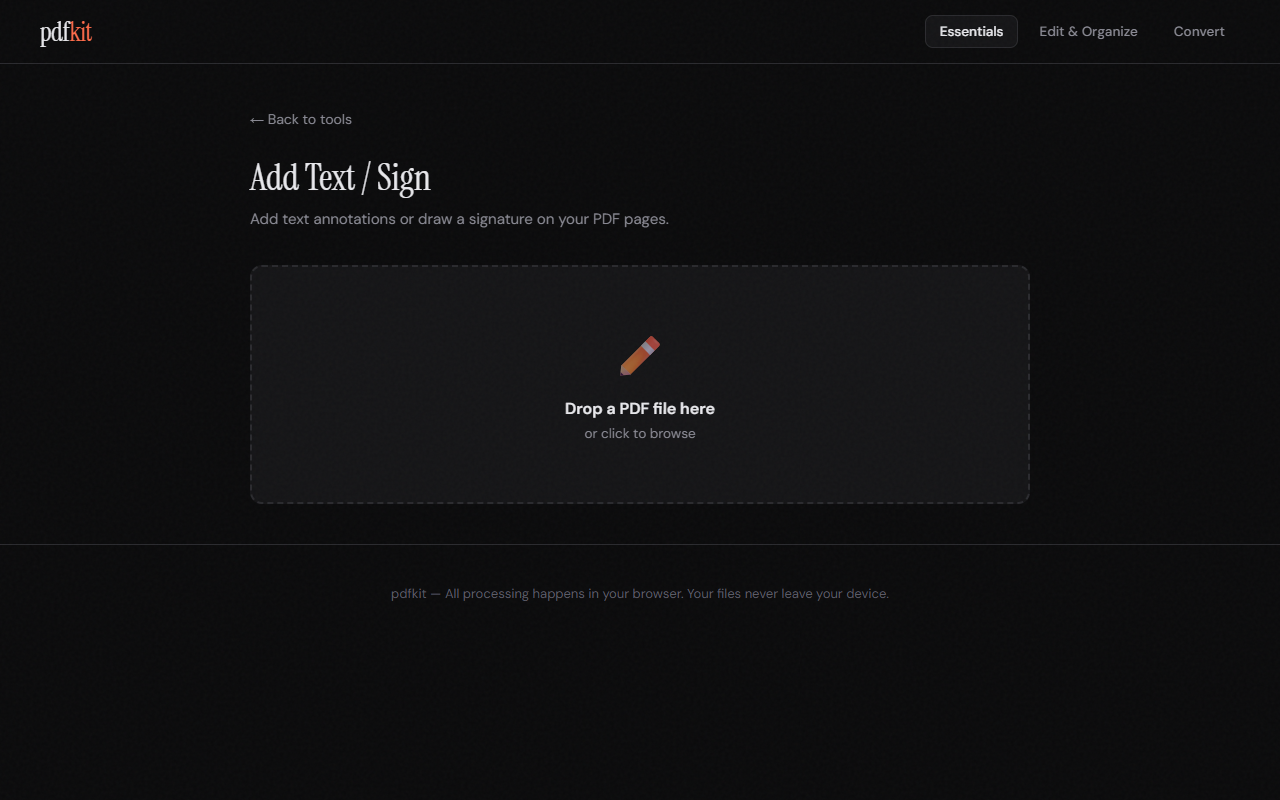
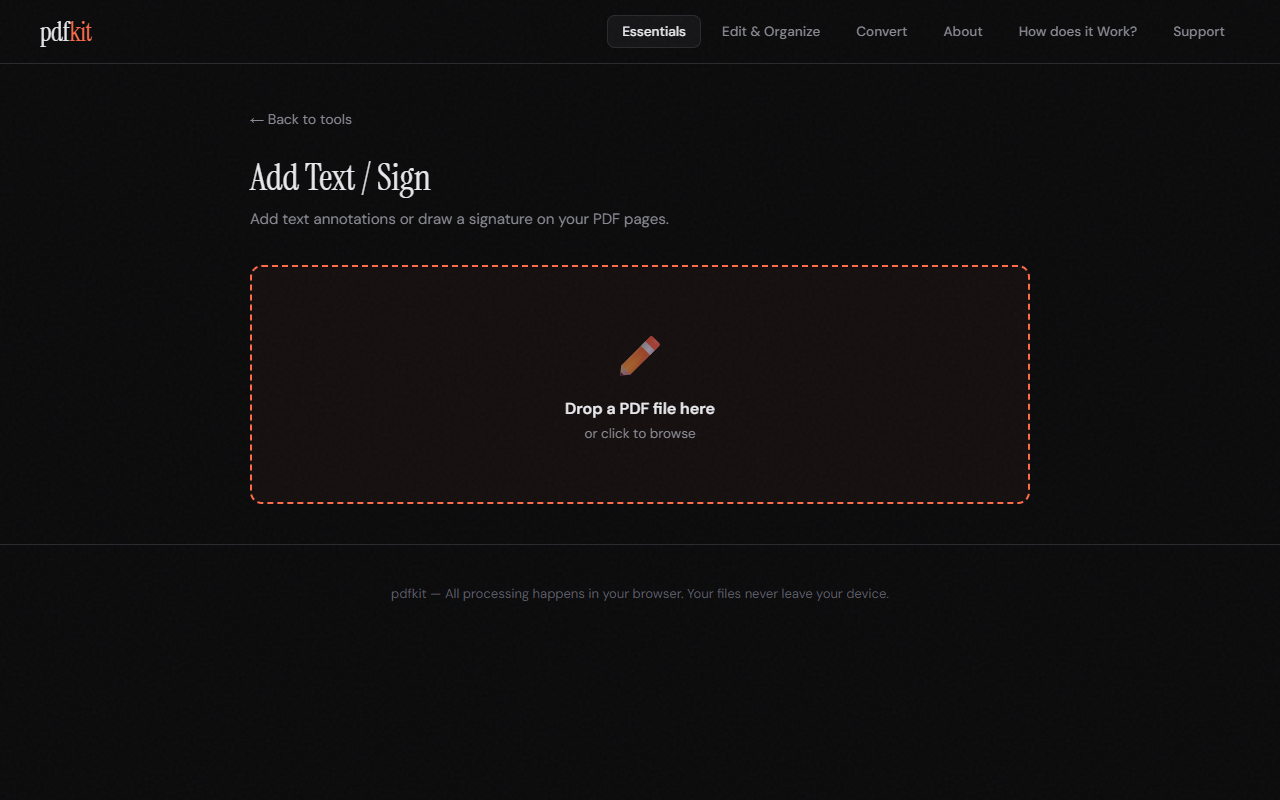
added the about the section

Changed region(s): [[0.6562, 0.0312, 0.9375, 0.0625], [0.5625, 0.0312, 0.625, 0.0625], [0.4688, 0.0312, 0.5312, 0.0625]]

diff --git a/src/core/App.js b/src/core/App.js
@@ -15,6 +15,9 @@ export function renderApp() {
         <button class="active" data-section="essentials">Essentials</button>
         <button data-section="edit">Edit & Organize</button>
         <button data-section="convert">Convert</button>
+        <button data-section="about">About</button>
+        <button data-section="howitworks">How does it Work?</button>
+        <button data-section="support">Support</button>
       </nav>
     </header>
 
@@ -110,6 +113,42 @@ export function renderApp() {
               <h3>Extract Text</h3>
               <p>Copy all text content from a PDF.</p>
             </div>
+          </div>
+        </div>
+      
+        <!-- ABOUT -->
+        <div class="tool-section" id="section-about">
+          <div class="section-label">About</div>
+          <div class="info-card">
+            <p>pdfkit is a free, open-source collection of PDF tools that runs entirely in your browser. There is no backend, no account required, and no file size limits. Everything is processed locally on your device using WebAssembly and the Canvas API.</p>
+            <p style="margin-top:12px">Built with vanilla JavaScript, <a href="https://pdf-lib.js.org/" target="_blank" rel="noopener">pdf-lib</a>, <a href="https://mozilla.github.io/pdf.js/" target="_blank" rel="noopener">PDF.js</a>, and <a href="https://vitejs.dev/" target="_blank" rel="noopener">Vite</a>. No frontend framework.</p>
+          </div>
+        </div>
+
+        <!-- HOW DOES IT WORK -->
+        <div class="tool-section" id="section-howitworks">
+          <div class="section-label">How does it Work?</div>
+          <div class="info-card">
+            <p>When you upload a file, it never leaves your device. Here is exactly what happens:</p>
+            <ol style="margin-top:14px;padding-left:20px;display:flex;flex-direction:column;gap:10px">
+              <li><strong>The browser reads the file into memory</strong> using the FileReader / ArrayBuffer API. The file data lives in your browser's RAM, not on any server.</li>
+              <li><strong>pdf-lib and PDF.js process it locally</strong> inside your browser tab using JavaScript and WebAssembly.</li>
+              <li><strong>The result is generated in memory</strong> as a new Blob object, still entirely in RAM.</li>
+              <li><strong>You download it</strong> via a temporary local URL that the browser creates, triggers the download, then immediately revokes.</li>
+              <li><strong>When you close the tab</strong>, everything is gone. No trace left anywhere.</li>
+            </ol>
+            <p style="margin-top:14px;color:var(--text-muted)">No data is ever sent over the network. You can turn off your WiFi after the page loads and every tool will still work.</p>
+          </div>
+        </div>
+
+        <!-- SUPPORT -->
+        <div class="tool-section" id="section-support">
+          <div class="section-label">Support</div>
+          <div class="info-card">
+            <p>pdfkit is free and open-source. If it has been useful to you, consider supporting its development via GitHub Sponsors.</p>
+            <a href="https://github.com/sponsors/viveknaskar" target="_blank" rel="noopener" class="btn-sponsor">
+              ❤ Sponsor on GitHub
+            </a>
           </div>
         </div>
       </div>

diff --git a/src/styles/layout.css b/src/styles/layout.css
@@ -180,3 +180,23 @@ footer {
   .tool-grid { grid-template-columns: 1fr; }
   header nav { display: none; }
 }
+
+.info-card {
+  background: var(--bg-card);
+  border: 1px solid var(--border);
+  border-radius: var(--radius);
+  padding: 28px 32px;
+  max-width: 720px;
+  font-size: 14.5px;
+  line-height: 1.7;
+  color: var(--text-muted);
+}
+
+.info-card strong { color: var(--text); }
+
+.info-card a:not(.btn-sponsor) {
+  color: var(--accent);
+  text-decoration: none;
+}
+
+.info-card a:hover { text-decoration: underline; }

diff --git a/src/styles/components.css b/src/styles/components.css
@@ -356,3 +356,25 @@
   background: var(--green);
   color: #000;
 }
+
+/* ===== SPONSOR BUTTON ===== */
+.btn-sponsor {
+  display: inline-flex;
+  align-items: center;
+  gap: 8px;
+  margin-top: 20px;
+  padding: 12px 28px;
+  background: var(--accent);
+  color: #fff;
+  font-family: var(--font-body);
+  font-size: 15px;
+  font-weight: 600;
+  border-radius: var(--radius-sm);
+  text-decoration: none;
+  transition: all 0.2s;
+}
+
+.btn-sponsor:hover {
+  background: var(--accent-soft);
+  transform: translateY(-1px);
+}

diff --git a/README.md b/README.md
@@ -5,6 +5,8 @@
 [![GitHub Sponsors](https://img.shields.io/github/sponsors/viveknaskar?label=Sponsor&logo=GitHub)](https://github.com/sponsors/viveknaskar)
 ![Views](https://komarev.com/ghpvc/?username=viveknaskar&repo=pdf-kit&color=orange&label=Views&style=flat)
 
+Live site: https://viveknaskar.github.io/pdf-kit/
+
 Free, open-source PDF tools that run entirely in your browser. No watermarks, no sign-up, no server uploads — your files never leave your device.
 
 Built with vanilla JavaScript, [pdf-lib](https://pdf-lib.js.org/), [PDF.js](https://mozilla.github.io/pdf.js/), and [Vite](https://vitejs.dev/).
